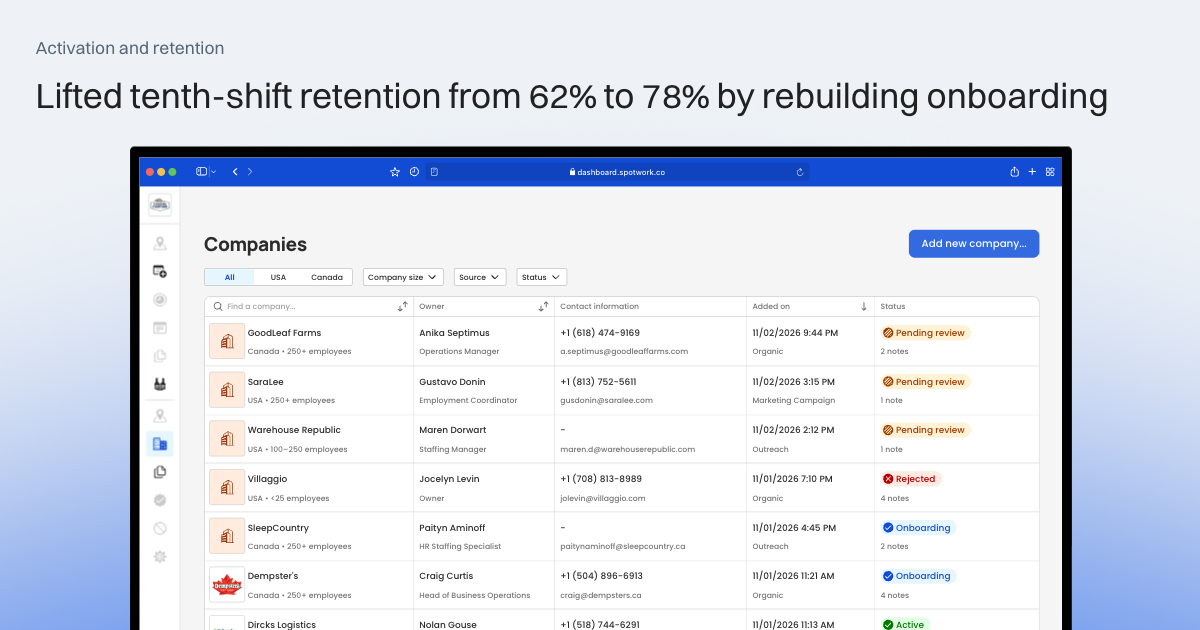
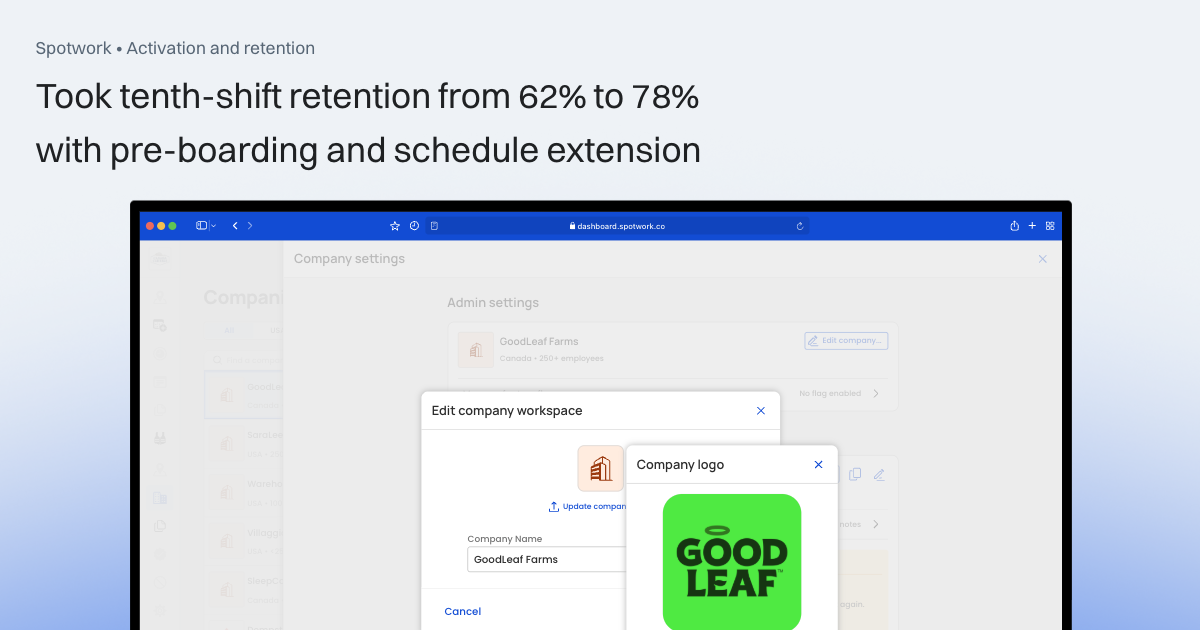
Retell the About cards around geofencing and schedule extension, head the project cards with the same words, and let them grow below xl
- About copy: the Flexibility card is now Geofencing, with its demos and its second and third paragraphs swapped and a problem about the old 500-metre check-in radius. "One-drag reposting" is "schedule extension" throughout. The design system heading leads with 1.5× releases; Activation and retention's leads with tenth-shift retention; the check-ins heading and its pay-issues line, the design system's WCAG AA components, the Pre-boarding eyebrow and the Shift scheduling card match their demo.
- Homepage cards carry their About sheet's opening heading (a test keeps them matched), under "Spotwork • " and the project's title. Link previews rebaked.
- Below xl (1280px) a card's words sit above its monitor, so the card grows as its heading wraps, as it did only below md before.
- The overlay's prototype window rounds its corners in step with its scale.

diff --git a/src/app/projects/_spotwork/copy.ts b/src/app/projects/_spotwork/copy.ts
@@ -27,38 +27,38 @@ export const SIDEBAR = {
   hide: "Hide about this project",
   /** The cards' own headings, where their sheet's don't suit the card. */
   headings: {
-    checkIns: "Cut attendance disputes from 90 a week to 31 by rebuilding check-ins and time tracking",
-    designSystem: "Rolled out and maintained a design system that cut release cycle time by 38% in a year",
-    flexibility: "Now floor managers check in workers who can't check themselves in",
+    checkIns: "Cut attendance disputes from 90 a week to 31 by geofencing check-ins and time tracking",
+    designSystem: "Rolled out and maintained a design system that helped us ship 1.5× as many releases",
+    flexibility: "Geofences that follow the work perimeter let workers on large sites check in",
     invoice: "The Timesheet is finance's source of truth: timecards track who made each edit",
     traceability: "Our operations team could confirm who was on site and triage likely no-shows",
     components: "Separate UI from business logic and build every screen from compound components",
-    activationAndRetention: "Pre-boarding and one-drag reposting lifted tenth‑shift retention from 62% to 78%",
+    activationAndRetention: "Took tenth‑shift retention from 62% to 78% with pre-boarding and schedule extension",
     onboarding: "New companies went from an empty dashboard to booked workers within hours",
     shiftScheduling: "Staffing managers extend a posted schedule with a drag",
   },
   /** The cards' own words where their sheet's run longer than 338 characters. */
   bodies: {
     checkIns:
-      "Spotwork's time tracking sets what contract workers earn and companies pay. *15% of workers used to raise pay issues every week*.\n\nIn 2025, I rebuilt time tracking with floor managers and our finance team. Floor managers could now check in workers who couldn't check themselves in, and finance could *reconcile and invoice every hour worked from the Timesheet*. The check-in tracking dashboard let our operations team watch new workers and new teams closely.",
+      "Spotwork's time tracking sets what contract workers earn and companies pay. *15% of workers used to raise attendance-related pay issues every week*.\n\nIn 2025, I rebuilt time tracking with floor managers and our finance team. Floor managers could now check in workers who couldn't check themselves in, and finance could *reconcile and invoice every hour worked from the Timesheet*. The check-in tracking dashboard let our operations team watch new workers and new teams closely.",
     flexibility:
-      "At our remote warehouses, *poor signal blocked workers from checking in*. Those on site showed as missing until the shift ended. Our operations team had to verify them manually.\n\nI built a Check-ins page with the day's roster and live check-in status. Floor managers could *check workers in or out or mark them absent* mid-shift.\n\nI added the ability to draw and precisely adjust geofences around a worksite. Workers could then *check in or out only inside the work perimeter*. Geofences also flagged workers who left the worksite while checked in.",
+      "Before geofencing, check-ins covered a 500-metre radius around the worksite's pin. At large facilities, the entrance could fall outside that radius, *preventing workers from checking in*.\n\nI added the ability to draw and precisely adjust geofences around a worksite. Workers could then *check in or out only inside the work perimeter*. Geofences also flagged workers who left the worksite while checked in.\n\nI also built the day's roster into the overview page with live check-in status, and gave floor managers the ability to *check workers in and out, or mark them absent* mid-shift.",
     invoice:
       "Previously, hours a worker submitted replaced their check-in times. I made each timecard *track every edit and who made it*.\n\nCompanies used to book urgent shifts off-app, and finance had to invoice them on spreadsheets. I added off-app timecards for them. Every hour logged or changed had a change log behind it, so finance could treat the Timesheet as *the single source of truth for reconciliation*.",
     traceability:
       "I combined risk signals from OpenPhone texts and our shift, worker and company data to enable our operations team to *triage missing check-ins demanding urgent action*.\n\nGig work is inherently low trust. So I added location history, which let our operations team *ensure workers were on site for the duration of their shift*. From the dashboard, they could text any worker who left the job site.",
     designSystem:
-      "As product designer and product manager, I led the rebuild of Spotwork's staffing management platform. Poor separation of concerns and hardcoded values led to code duplication and visual inconsistencies. Both made *development and testing prohibitively slow and expensive*.\n\nI drafted design system guidelines, and built compound components with engineering to separate presentation from business logic. The modularity and reusability we achieved *brought down the median release cycle time from 21 days to 13 days in a year*.",
+      "As product designer and product manager, I led the rebuild of Spotwork's staffing management platform. Poor separation of concerns and hardcoded values led to code duplication and visual inconsistencies. Both made *development and testing prohibitively slow and expensive*.\n\nI drafted design system guidelines, and built WCAG AA-compliant UI components with engineering to separate presentation from business logic. The modularity and reusability we achieved *brought down the median release cycle time from 21 days to 13 days in a year*.",
     tokens:
       "Colours and sizes used to be raw values. So components that behaved alike *looked different from place to place*.\n\nI wrote colours in OKLCH, where equal lightness looks equally light in every hue. That made Active, Success, Warning and Alert *match surface, text and outline shades*.\n\nI set sizes in rem and borders in px. So *layouts scaled with browser text size* while borders held one even pixel.",
     components:
       "Our UI used to be intertwined with business logic. So existing elements were *hard to reuse*.\n\nWe built each screen as *declarative UI*, stating what it showed in the named parts of compound components. Outside its own component, a part raised an error naming its owner.\n\nWe set rules so every component in code *followed the design system*. Any local override carried a written reason we could track.",
     activationAndRetention:
-      "Companies came to Spotwork to book workers. Their first impressions *dictated whether they stayed with us*.\n\nPreviously, companies started on an empty dashboard, which delayed activation. I enabled Sales to set them up with relevant job templates and a reliable worker pool to *minimize their time to first booking*.\n\nExtending a posted schedule used to mean drafting the shift again and sending workers a fresh round of offers. Staffing managers could now extend it in place, and offers went out automatically to the workers already booked. Repeat workers trusted companies they had already worked with, resulting in *fewer no-shows than first-timers*, which kept companies booking with us.",
+      "Companies came to Spotwork to book workers. Their first impressions *dictated whether they stayed with us*.\n\nPreviously, companies started on an empty dashboard, which delayed activation. I enabled Sales to set them up with relevant job templates and a reliable worker pool to *minimize their time to first booking*.\n\nI added schedule extension, which offered a posted schedule's new dates to repeat workers first. They trusted companies they had worked with, which meant *fewer no-shows than first-timers* and kept companies booking with us.",
     onboarding:
-      "Before the rebuild, new companies started on an empty dashboard. Customers had to create templates before they could post shifts. Further, they had to wait for relevant workers to apply after posting shifts. These friction points delayed customers from experiencing *Spotwork's core value proposition*, making activation harder.\n\nI designed a pre-boarding workflow that let Sales set up each approved company's team before the company signed up. Sales prepared the team's templates, and added reliable workers with relevant skills to its worker pool. As a result, new companies reached the “aha moment” sooner, going *from an empty dashboard to booked workers within hours*.",
+      "Before the rebuild, new companies started on an empty dashboard. Customers had to create templates before they could post shifts. Further, they had to wait for relevant workers to apply after posting shifts. These friction points stretched customers' *time to value*, making activation harder.\n\nI designed a pre-boarding workflow that let Sales set up each approved company's team before the company signed up. Sales prepared the team's templates, and added reliable workers with relevant skills to its worker pool. As a result, new companies cut their time to first booking, going *from an empty dashboard to booked workers within hours*.",
     shiftScheduling:
-      "In the past, the staffing managers who posted most often had to draft a shift again to add dates and *send workers a fresh round of offers*.\n\nI prototyped two concepts. Recurrence proved efficient but rigid. Drag to select kept the calendar staffing managers already used.\n\nNow they *extend or change a posted schedule in place*.",
+      "In the past, the staffing managers who posted most often had to draft a shift again to add dates and *send workers a fresh round of offers*.\n\nI let staffing managers change or extend a posted schedule in place. New dates went to *its booked workers first*, then the company's worker pool, then recommended workers with relevant skills.",
   },
   /** The metric of a project with no sheet to take one from. */
   outcomes: {
@@ -67,7 +67,7 @@ export const SIDEBAR = {
       label: "tenth‑shift retention",
       trend: "up",
       change: "16 points",
-      detail: "Pre-boarding and effortless reposting lifted tenth‑shift retention by 16 points, *from 62% to 78%*.",
+      detail: "Pre-boarding and schedule extension lifted tenth‑shift retention by 16 points, *from 62% to 78%*.",
     },
   } satisfies Record<string, Metric>,
   /** What each card's demo plays, beside its Play, on one line. */
@@ -91,7 +91,7 @@ export const SIDEBAR = {
   /** The first card's rows for the sheet's role and year. */
   facts: { role: "Role", year: "Year" },
   /** The eyebrows of Activation and retention's cards, in Kartik's words. */
-  eyebrows: { onboarding: "Onboarding and activation", shiftScheduling: "Shift scheduling" },
+  eyebrows: { onboarding: "Pre-boarding", shiftScheduling: "Shift scheduling" },
 };
 
 /**

diff --git a/src/app/projects/_spotwork/landing/landing-card.tsx b/src/app/projects/_spotwork/landing/landing-card.tsx
@@ -20,11 +20,11 @@ import { Monitor } from "./monitor";
 const carouselStyles = carousel();
 const CLIP_ASPECT = mediaSurfaceAspect({ width: 2160, height: 1350 }, { padding: 40 });
 
-// Below md each card's words take their own height, so the slides stretch to the tallest and the cards fill them.
+// Below xl each card's words take their own height, so the slides stretch to the tallest and the cards fill them.
 const slideStyle = css({
   paddingBlock: "md",
   "[data-entering] &": { opacity: 0 },
-  mdDown: { alignSelf: "stretch", display: "flex" },
+  xlDown: { alignSelf: "stretch", display: "flex" },
 });
 
 const HOVER_EASE = "800ms cubic-bezier(0.165, 0.84, 0.44, 1)";
@@ -52,7 +52,7 @@ const cardStyle = css({
   },
   _hasCursor: { marginInline: `calc(-1 * ${INSET_X})` },
   borderRadius: "xl",
-  mdDown: { display: "flex", flexDirection: "column" },
+  xlDown: { display: "flex", flexDirection: "column" },
 });
 
 // The press: over the whole card, the live app under it taking none. First in the card, so the card's pressed, hovered and
@@ -82,7 +82,7 @@ const surfaceStyle = css({
   "[data-sheet-card] > a:active ~ &": { transform: "scale(0.98)" },
   "&[data-hover-held]": { clipPath: OPEN_CLIP },
   "[data-sheet-card] > a:focus-visible ~ &": { clipPath: OPEN_CLIP },
-  mdDown: { display: "flex", flexDirection: "column", flexGrow: 1 },
+  xlDown: { display: "flex", flexDirection: "column", flexGrow: 1 },
 });
 
 const HALF_LINE = "calc(token(spacing.xxs) / 2)";
@@ -182,7 +182,7 @@ const faceStyle = css({
   aspectRatio: "var(--slide-aspect)",
   minHeight: 0,
   overflow: "hidden",
-  mdDown: { aspectRatio: "auto", display: "flex", flexDirection: "column", flexGrow: 1 },
+  xlDown: { aspectRatio: "auto", display: "flex", flexDirection: "column", flexGrow: 1 },
 });
 const faceTextStyle = css({
   position: "relative",
@@ -201,7 +201,7 @@ const faceTextStyle = css({
   _hasCursor: { ...RIDING, paddingBlockEnd: `calc(token(spacing.xl) + ${INSET_Y})` },
   "&[data-hover-held]": RODE,
   "[data-sheet-card] > a:focus-visible ~ * &": RODE,
-  mdDown: { order: -1, paddingBlockEnd: 0 },
+  xlDown: { order: -1, paddingBlockEnd: 0 },
 });
 const faceTitleStyle = css({
   textStyle: "caption",
@@ -215,7 +215,7 @@ const faceHeadingStyle = css({ textStyle: "subheading", color: "text.title", tex
 // The monitor and its backlight covering the face from its top, the words on it, and the app's window on the monitor's
 // screen (monitor.tsx). Centred without a transform, which would cut the stand off the backlight. The words' row is as
 // tall as the bezel's offset or the words, so the monitor moves down only as far as it keeps them xl clear of the bezel.
-// Below md, where the words would cover the screen, the monitor sits under them at the face's foot instead. The bezel's
+// Below xl, where the words would wrap over the screen, the monitor sits under them at the face's foot instead. The bezel's
 // top is monitor.tsx's 139.5 of its 1536 width, written out for Panda, which can't read it through an import.
 const BEZEL_OFFSET = "calc(var(--monitor-w) * 139.5 / 1536)";
 const coverStyle = css({
@@ -228,7 +228,7 @@ const coverStyle = css({
   alignContent: "start",
   pointerEvents: "none",
   _before: { content: '""', gridArea: "1 / 1", height: BEZEL_OFFSET },
-  mdDown: {
+  xlDown: {
     position: "relative",
     display: "flex",
     flexDirection: "column",
@@ -245,7 +245,7 @@ const monitorStyle = css({
   marginInlineStart: "calc(50cqw - var(--monitor-w) / 2)",
   width: "var(--monitor-w)",
   aspectRatio: "1536 / 1099",
-  mdDown: { "--monitor-w": "100cqw", marginBlockStart: "auto" },
+  xlDown: { "--monitor-w": "100cqw", marginBlockStart: "auto" },
 });
 const windowStyle = css({
   position: "absolute",
@@ -338,7 +338,7 @@ export function LandingCard({
                 </span>
               </span>
               <span className={faceTextStyle} {...hover}>
-                <span className={faceTitleStyle} {...brand}>{card.title}</span>
+                <span className={faceTitleStyle} {...brand}>Spotwork • {card.title}</span>
                 <span className={faceHeadingStyle}>{card.sentence}</span>
               </span>
             </span>

diff --git a/src/app/projects/_spotwork/prototype-overlay.tsx b/src/app/projects/_spotwork/prototype-overlay.tsx
@@ -199,10 +199,11 @@ const contentsStyle = css({ display: "contents" });
 const SPOTWORK_CURSOR = css.raw({ "--cursor-ink": "var(--sw-glyph-selected)", "--cursor-edge": "var(--sw-surface-selected)" });
 
 // Clipped, not hidden: the scaled app overflows it, and a hidden box can still be scrolled (Google's map scrolls it).
+// Its corners scale with the app.
 const windowStyle = css({
   position: "relative",
   overflow: "clip",
-  borderRadius: "md",
+  borderRadius: "calc(token(radii.md) * var(--window-scale, 1))",
   boxShadow: "0 0 0 0.5px var(--colors-border-image-outline)",
 });
 
@@ -613,12 +614,12 @@ function OverlayContent({
               <div
                 ref={windowBox}
                 className={windowStyle}
-                style={{ width: width * scale, height: height * scale }}
+                style={{ width: width * scale, height: height * scale, "--window-scale": scale } as CSSProperties}
                 data-overlay-motion="window"
               >
                 <div
                   className={cx(scaledStyle, themeClassName)}
-                  style={{ width, height, transform: `scale(${scale})`, "--window-scale": scale } as CSSProperties}
+                  style={{ width, height, transform: `scale(${scale})` }}
                 >
                   {/* The design system's site draws its own bar once it's here. */}
                   {(site.site === "app" || !live) && <BrowserBar url={site.url} accent={ACCENT} />}

diff --git a/src/data/project-cards.ts b/src/data/project-cards.ts
@@ -10,17 +10,17 @@ export const PROJECT_CARDS: ProjectCard[] = [
   {
     id: "design-system",
     title: "Design system",
-    sentence: "Rolled out and maintained a design system that cut release cycles from 21 to 13 days",
+    sentence: "Rolled out and maintained a design system that helped us ship 1.5× as many releases",
   },
   {
     id: "check-ins",
     title: "Check-ins and time tracking",
-    sentence: "Rebuilt check-ins and time tracking, cutting attendance disputes by 65%",
+    sentence: "Cut attendance disputes from 90 a week to 31 by geofencing check-ins and time tracking",
   },
   {
     id: "activation-and-retention",
     title: "Activation and retention",
-    sentence: "Lifted tenth‑shift retention from 62% to 78% by rebuilding onboarding",
+    sentence: "Took tenth‑shift retention from 62% to 78% with pre-boarding and schedule extension",
   },
 ];
 

diff --git a/src/data/__tests__/project-cards.test.ts b/src/data/__tests__/project-cards.test.ts
@@ -8,6 +8,7 @@ import {
   projectPath,
   projectPreviewPath,
 } from "../project-cards";
+import { SIDEBAR } from "@/app/projects/_spotwork/copy";
 
 describe("the homepage's projects", () => {
   it("are the design system, check-ins and activation, in the cards' order", () => {
@@ -25,6 +26,11 @@ describe("the homepage's projects", () => {
 
   it("each have a link preview of their own", () => {
     expect(projectPreviewPath("design-system")).toBe("/og/projects/design-system.png");
+  });
+
+  it("each carry the heading their About sheet opens with", () => {
+    const { designSystem, checkIns, activationAndRetention } = SIDEBAR.headings;
+    expect(PROJECT_CARDS.map((card) => card.sentence)).toEqual([designSystem, checkIns, activationAndRetention]);
   });
 
   it("are found by their id, and nothing else is", () => {

diff --git a/src/app/projects/_spotwork/__tests__/about-sheet.test.tsx b/src/app/projects/_spotwork/__tests__/about-sheet.test.tsx
@@ -378,7 +378,7 @@ describe("the About sheet's Play", () => {
   it("sits under the words of the Check-ins page's card, the Timesheet's and the dashboard's: a row for each demo, one button named by what it plays", () => {
     const { sheet, card } = setupPlay();
     for (const [heading, ...labels] of [
-      [SIDEBAR.headings.flexibility, SIDEBAR.demos.flexibility, SIDEBAR.demos.geofence],
+      [SIDEBAR.headings.flexibility, SIDEBAR.demos.geofence, SIDEBAR.demos.flexibility],
       [SIDEBAR.headings.invoice, SIDEBAR.demos.invoice],
       [SIDEBAR.headings.traceability, SIDEBAR.demos.traceability, SIDEBAR.demos.riskSignals],
     ]) {

diff --git a/src/app/projects/_spotwork/sheet-words.ts b/src/app/projects/_spotwork/sheet-words.ts
@@ -37,7 +37,7 @@ export const LIVE_INTRO = {
 
 export const LIVE_HEADS = {
   checkIns: {
-    eyebrow: "Flexibility",
+    eyebrow: "Geofencing",
     heading: "Let floor managers handle check-in exceptions",
     body: "Many of our sites were remote warehouses where *poor signal kept workers from checking in on the worker app*. Workers already on site showed as missing, and our operations team had to verify every missing check-in manually.\n\nThe Check-ins page listed the roster of workers scheduled to work on the day with their live check-in status, enabling floor managers to *settle missing check-ins on site during the shift*.",
   },

diff --git a/src/app/projects/_spotwork/landing/__tests__/landing-cards.test.tsx b/src/app/projects/_spotwork/landing/__tests__/landing-cards.test.tsx
@@ -124,6 +124,11 @@ describe("LandingCards", () => {
     ]);
   });
 
+  it("heads each card's words with Spotwork before its title", () => {
+    render(<LandingCards paused={false} onOpen={() => {}} />);
+    expect(screen.getByText("Spotwork • Check-ins and time tracking")).toBeTruthy();
+  });
+
   it("opens a card's project in place on a plain click", () => {
     const onOpen = vi.fn();
     render(<LandingCards paused={false} onOpen={onOpen} />);

diff --git a/src/app/projects/_spotwork/about-stories.ts b/src/app/projects/_spotwork/about-stories.ts
@@ -51,8 +51,8 @@ export const ABOUT = {
         heading: SIDEBAR.headings.flexibility,
         body: paragraphs(bodies.flexibility),
         demos: [
-          { label: demos.flexibility, version: "company" },
           { label: demos.geofence, version: "company", name: "geofence" },
+          { label: demos.flexibility, version: "company" },
         ],
       },
       {

diff --git a/src/app/projects/_spotwork/__tests__/project-markdown.test.ts b/src/app/projects/_spotwork/__tests__/project-markdown.test.ts
@@ -9,7 +9,7 @@ describe("projectMarkdown", () => {
   it("opens with the card's title and sentence", () => {
     expect(lines("check-ins").slice(0, 2)).toEqual([
       "# Check-ins and time tracking",
-      "Rebuilt check-ins and time tracking, cutting attendance disputes by 65%",
+      SIDEBAR.headings.checkIns,
     ]);
   });
 
